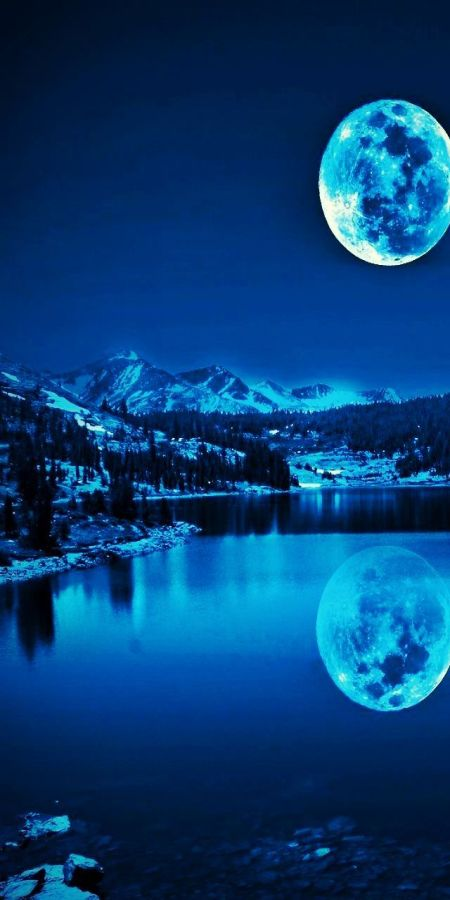
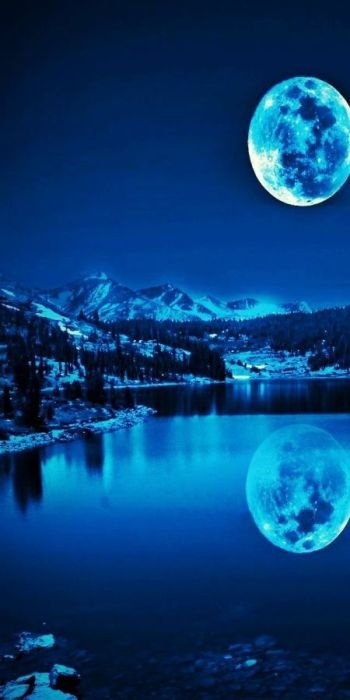
Commit

diff --git a/JavaScript/004/css/Opdracht4.3.css b/JavaScript/004/css/Opdracht4.3.css
@@ -1,6 +1,6 @@
 #slideholder1 {
-    height: 900px;
-    width: 450px;
+    height: 700px;
+    width: 350px;
     border: 3px black solid;
     border-right: 1px black solid;
     transition: 1s;
@@ -8,8 +8,8 @@
 }
 
 #slideholder2 {
-    height: 900px;
-    width: 450px;
+    height: 700px;
+    width: 350px;
     border: 3px black solid;
     border-right: 1px black solid;
     border-left: 2px black solid;
@@ -18,8 +18,8 @@
 }
 
 #slideholder3 {
-    height: 900px;
-    width: 450px;
+    height: 700px;
+    width: 350px;
     border: 3px black solid;
     border-left: 2px black solid;
     transition: 1s;
